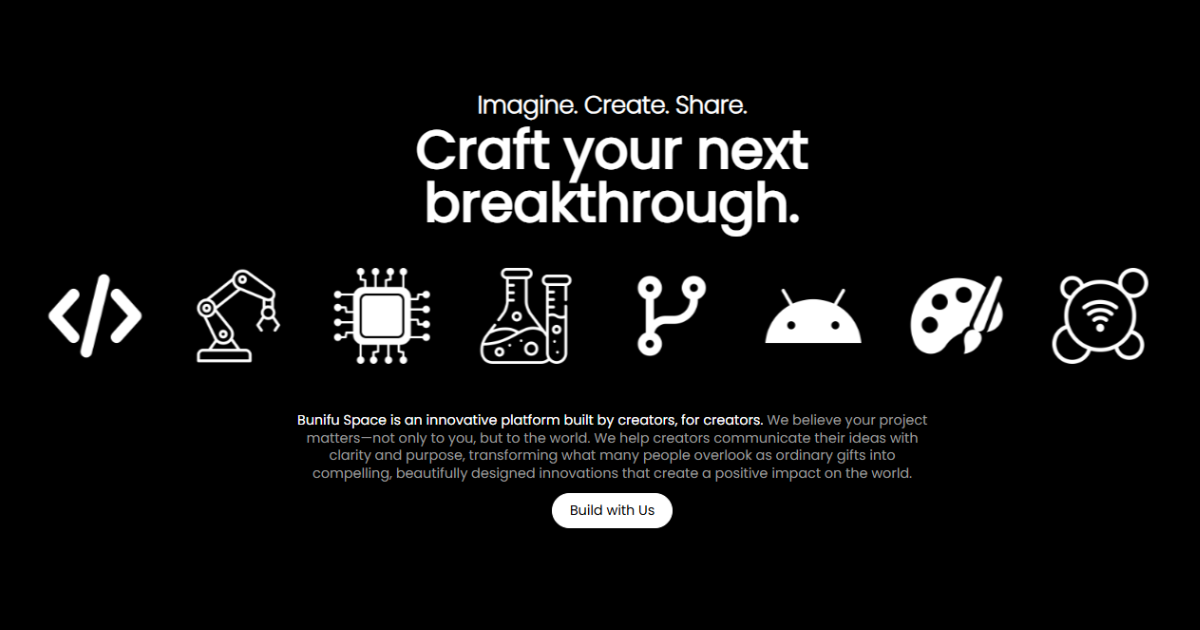
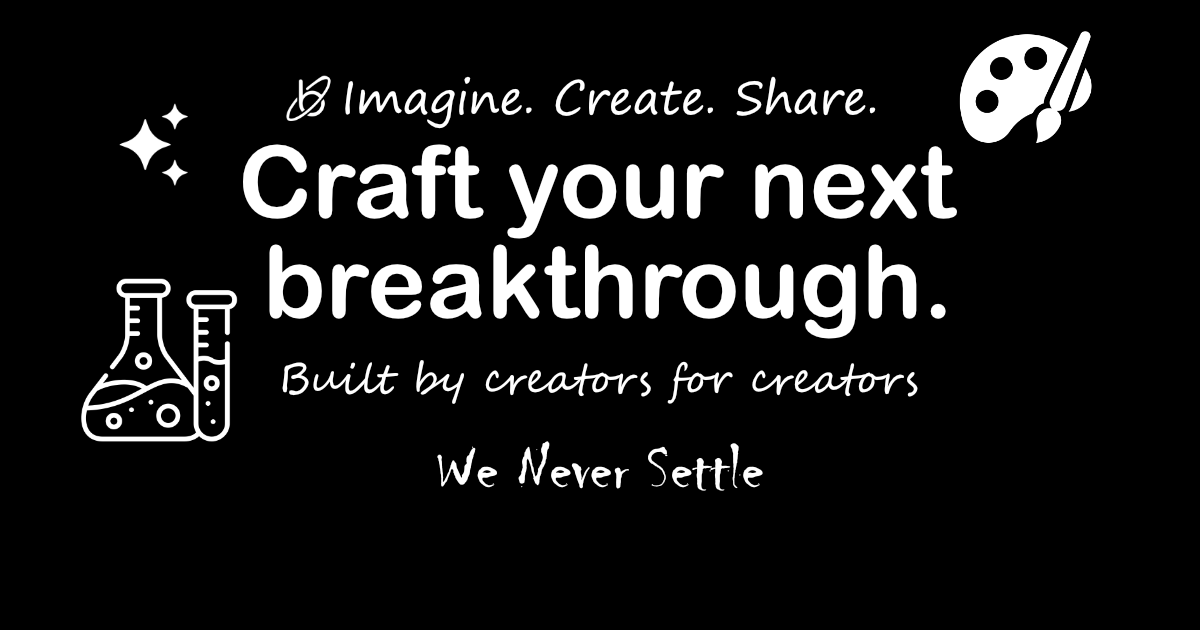
chore: orchestrate production sync [core → distribution] | Lead Architect: John J

diff --git a/css/main.css b/css/main.css
@@ -243,7 +243,6 @@ span.warning {
 
 .feature {
   padding: var(--space-6) 10vw;
-  min-height: 400px;
 }
 
 .feature h2 {
@@ -320,7 +319,6 @@ span.warning {
 
 .process {
   padding: var(--space-6) 10vw;
-  min-height: 400px;
 }
 
 .process h2 {
@@ -330,7 +328,7 @@ span.warning {
 .process p {
   font-size: var(--fs-lg);
   color: var(--text-muted);
-  padding: var(--space-4) 0;
+  padding: var(--space-1) 0;
 }
 
 .process a {
@@ -364,7 +362,6 @@ span.warning {
 
 .innovation {
   padding: var(--space-6) 10vw;
-  min-height: 400px;
 }
 
 .innovation h2 {
@@ -391,7 +388,6 @@ span.warning {
 
 .craft {
   padding: var(--space-6) 10vw;
-  min-height: 400px;
 }
 
 .craft h2 {
@@ -420,7 +416,6 @@ span.warning {
 
 .collaborate {
   padding: var(--space-6) 10vw;
-  min-height: 600px;
 }
 
 .collaborate h2 {
@@ -450,7 +445,6 @@ span.warning {
 
 .values {
   padding: var(--space-6) 10vw;
-  min-height: 500px;
 }
 
 .values h2 {
@@ -492,7 +486,6 @@ span.warning {
 
 .statement {
   padding: var(--space-6) 10vw;
-  min-height: 500px;
 }
 
 .statement h2 {
@@ -515,7 +508,6 @@ span.warning {
 
 .faqs {
   padding: var(--space-6) 10vw;
-  min-height: 400px;
 }
 
 .faqs h2 {
@@ -572,7 +564,6 @@ span.warning {
 
 footer {
   padding: var(--space-6) 10vw;
-  min-height: 400px;
 }
 
 footer p {

diff --git a/404/main.css b/404/main.css
@@ -120,8 +120,7 @@ body {
 }
 
 .error {
-  padding: var(--space-6) 10vw;
-  min-height: 400px;
+  padding: var(--space-12) 10vw;
   display: flex;
   flex-direction: column;
   align-items: center;

diff --git a/bentech/buzurugasda/scripts/app.js b/bentech/buzurugasda/scripts/app.js
@@ -1,1 +1,1 @@
-const a0_0x33c5e9=a0_0x2c23;function a0_0x2c23(_0x4e5430,_0x51cbfc){_0x4e5430=_0x4e5430-0x163;const _0x47c80e=a0_0x5b82();let _0x25706d=_0x47c80e[_0x4e5430];return _0x25706d;}(function(_0x307b77,_0x3db43e){const _0x32dba5=a0_0x2c23,_0xde9ba=_0x307b77();while(!![]){try{const _0x457c3d=-parseInt(_0x32dba5(0x188))/0x1*(-parseInt(_0x32dba5(0x17d))/0x2)+parseInt(_0x32dba5(0x169))/0x3+parseInt(_0x32dba5(0x186))/0x4+parseInt(_0x32dba5(0x167))/0x5+-parseInt(_0x32dba5(0x18e))/0x6*(-parseInt(_0x32dba5(0x163))/0x7)+-parseInt(_0x32dba5(0x16f))/0x8+-parseInt(_0x32dba5(0x187))/0x9*(parseInt(_0x32dba5(0x17e))/0xa);if(_0x457c3d===_0x3db43e)break;else _0xde9ba['push'](_0xde9ba['shift']());}catch(_0x454cd0){_0xde9ba['push'](_0xde9ba['shift']());}}}(a0_0x5b82,0xb50e8));const a0_0x3183a8=(function(){let _0x49c3e6=!![];return function(_0x5c01c5,_0x7a16f3){const _0x59f528=_0x49c3e6?function(){const _0x4cb34c=a0_0x2c23;if(_0x7a16f3){const _0x145265=_0x7a16f3[_0x4cb34c(0x175)](_0x5c01c5,arguments);return _0x7a16f3=null,_0x145265;}}:function(){};return _0x49c3e6=![],_0x59f528;};}()),a0_0x25706d=a0_0x3183a8(this,function(){const _0x4b2096=a0_0x2c23,_0x3d0e2e={'vZDAQ':function(_0xe24dcc,_0x4c5c1c){return _0xe24dcc!==_0x4c5c1c;}};if(_0x3d0e2e[_0x4b2096(0x17c)](a0_0x25706d[_0x4b2096(0x18d)]()['toString']()['indexOf']('\x0a'),-0x1))return;return a0_0x25706d[_0x4b2096(0x170)]()[_0x4b2096(0x183)](_0x4b2096(0x177))['toString']()[_0x4b2096(0x184)](a0_0x25706d)[_0x4b2096(0x183)](_0x4b2096(0x177));});a0_0x25706d();const menuToggle=document[a0_0x33c5e9(0x16e)](a0_0x33c5e9(0x18b)),sidebar=document[a0_0x33c5e9(0x16e)](a0_0x33c5e9(0x172));menuToggle['addEventListener'](a0_0x33c5e9(0x17a),()=>{const _0x47b7ab=a0_0x33c5e9,_0x4eadd8={'HGFty':_0x47b7ab(0x180)},_0x5ce13e=menuToggle[_0x47b7ab(0x178)][_0x47b7ab(0x176)](_0x4eadd8[_0x47b7ab(0x189)]);!_0x5ce13e?(menuToggle['classList'][_0x47b7ab(0x16b)](_0x4eadd8[_0x47b7ab(0x189)]),sidebar[_0x47b7ab(0x178)][_0x47b7ab(0x16b)](_0x47b7ab(0x180))):(menuToggle['classList'][_0x47b7ab(0x182)](_0x4eadd8[_0x47b7ab(0x189)]),sidebar['classList'][_0x47b7ab(0x182)](_0x4eadd8[_0x47b7ab(0x189)]));}),document[a0_0x33c5e9(0x16e)](a0_0x33c5e9(0x164))[a0_0x33c5e9(0x185)](a0_0x33c5e9(0x17a),()=>{const _0x5c3a75=a0_0x33c5e9,_0x44f536={'GRjaa':_0x5c3a75(0x180)},_0x3fa177=menuToggle[_0x5c3a75(0x178)][_0x5c3a75(0x176)](_0x44f536[_0x5c3a75(0x18c)]);_0x3fa177&&(menuToggle[_0x5c3a75(0x178)][_0x5c3a75(0x182)]('active'),sidebar[_0x5c3a75(0x178)][_0x5c3a75(0x182)](_0x5c3a75(0x180)));});const accordionItems=document[a0_0x33c5e9(0x179)]('.combo\x20>\x20li');function a0_0x5b82(){const _0x1287af=[':scope\x20>\x20ul','getElementById','4278824xdTPGG','toString','DZqhx','sidebar','bQHkU','SJGjd','apply','contains','(((.+)+)+)+$','classList','querySelectorAll','click','height','vZDAQ','424IcfzQE','60RDgnvP','LSAZL','active','style','remove','search','constructor','addEventListener','5059252mfAOFN','4461579EeMsCk','5058aJoswg','HGFty','0px','menuToggle','GRjaa','bind','4407252zQkHKb','14YZpwKX','main','jgtlx','forEach','534125JzPRCV','querySelector','1013487mJwhDy','vcsBV','add','WSYHH'];a0_0x5b82=function(){return _0x1287af;};return a0_0x5b82();}accordionItems[a0_0x33c5e9(0x166)](_0x224a4b=>{const _0xc1e8a0=a0_0x33c5e9,_0xd6eb08={'DZqhx':_0xc1e8a0(0x18a),'bQHkU':_0xc1e8a0(0x180),'LSAZL':function(_0xe1b416,_0x4ec81f){return _0xe1b416+_0x4ec81f;},'WSYHH':'.top','vcsBV':_0xc1e8a0(0x16d)},_0x4c0193=_0x224a4b[_0xc1e8a0(0x168)](_0xd6eb08[_0xc1e8a0(0x16c)]),_0x55d29a=_0x224a4b[_0xc1e8a0(0x168)](_0xd6eb08[_0xc1e8a0(0x16a)]);_0x4c0193['addEventListener']('click',()=>{const _0x368698=_0xc1e8a0,_0x1fada5={'SJGjd':_0x368698(0x16d),'jgtlx':_0xd6eb08[_0x368698(0x171)]};if(_0x224a4b[_0x368698(0x178)][_0x368698(0x176)](_0xd6eb08[_0x368698(0x173)])){_0x55d29a['style']['height']=_0xd6eb08[_0x368698(0x171)],_0x224a4b[_0x368698(0x178)][_0x368698(0x182)]('active');return;}accordionItems[_0x368698(0x166)](_0x47cab1=>{const _0x1c4f94=_0x368698;_0x47cab1[_0x1c4f94(0x178)][_0x1c4f94(0x182)](_0x1c4f94(0x180)),_0x47cab1['querySelector'](_0x1fada5[_0x1c4f94(0x174)])[_0x1c4f94(0x181)][_0x1c4f94(0x17b)]=_0x1fada5[_0x1c4f94(0x165)];}),_0x224a4b['classList'][_0x368698(0x16b)](_0xd6eb08[_0x368698(0x173)]),_0x55d29a[_0x368698(0x181)][_0x368698(0x17b)]=_0xd6eb08[_0x368698(0x17f)](_0x55d29a['scrollHeight'],'px');});});
+const a0_0x1a90ef=a0_0x2537;(function(_0x5a57ff,_0x3217fa){const _0x14def5=a0_0x2537,_0xb5b73e=_0x5a57ff();while(!![]){try{const _0x34c38f=-parseInt(_0x14def5(0x160))/0x1*(-parseInt(_0x14def5(0x165))/0x2)+parseInt(_0x14def5(0x16c))/0x3+-parseInt(_0x14def5(0x180))/0x4+-parseInt(_0x14def5(0x168))/0x5*(-parseInt(_0x14def5(0x179))/0x6)+-parseInt(_0x14def5(0x161))/0x7+parseInt(_0x14def5(0x166))/0x8+-parseInt(_0x14def5(0x169))/0x9;if(_0x34c38f===_0x3217fa)break;else _0xb5b73e['push'](_0xb5b73e['shift']());}catch(_0x14d907){_0xb5b73e['push'](_0xb5b73e['shift']());}}}(a0_0x1a3e,0x8df13));const a0_0x2b9dc6=(function(){let _0x1c08c9=!![];return function(_0x62da6d,_0x23305c){const _0x4f4c86=_0x1c08c9?function(){const _0x31d545=a0_0x2537;if(_0x23305c){const _0x354786=_0x23305c[_0x31d545(0x175)](_0x62da6d,arguments);return _0x23305c=null,_0x354786;}}:function(){};return _0x1c08c9=![],_0x4f4c86;};}()),a0_0x2fab43=a0_0x2b9dc6(this,function(){const _0x101c43=a0_0x2537,_0x5c6c8b={'rEsST':function(_0x4d3d9b,_0x55aa2d){return _0x4d3d9b!==_0x55aa2d;},'rirmM':_0x101c43(0x178)};if(_0x5c6c8b[_0x101c43(0x17f)](a0_0x2fab43['bind']()[_0x101c43(0x183)]()[_0x101c43(0x167)]('\x0a'),-0x1))return;return a0_0x2fab43['toString']()[_0x101c43(0x16b)](_0x5c6c8b[_0x101c43(0x17b)])['toString']()[_0x101c43(0x16e)](a0_0x2fab43)[_0x101c43(0x16b)]('(((.+)+)+)+$');});a0_0x2fab43();const menuToggle=document[a0_0x1a90ef(0x17c)](a0_0x1a90ef(0x171)),sidebar=document[a0_0x1a90ef(0x17c)](a0_0x1a90ef(0x16a));menuToggle[a0_0x1a90ef(0x16f)](a0_0x1a90ef(0x182),()=>{const _0x310ebc=a0_0x1a90ef,_0x1eb39e={'USSox':_0x310ebc(0x15e)},_0x3dc1e3=menuToggle['classList'][_0x310ebc(0x17e)](_0x1eb39e[_0x310ebc(0x173)]);!_0x3dc1e3?(menuToggle[_0x310ebc(0x174)]['add'](_0x310ebc(0x15e)),sidebar[_0x310ebc(0x174)][_0x310ebc(0x17d)](_0x1eb39e[_0x310ebc(0x173)])):(menuToggle[_0x310ebc(0x174)][_0x310ebc(0x16d)](_0x310ebc(0x15e)),sidebar['classList'][_0x310ebc(0x16d)](_0x310ebc(0x15e)));}),document['getElementById'](a0_0x1a90ef(0x177))[a0_0x1a90ef(0x16f)]('click',()=>{const _0x8d689f=a0_0x1a90ef,_0x212798={'YjHxC':_0x8d689f(0x15e)},_0x10cab6=menuToggle[_0x8d689f(0x174)][_0x8d689f(0x17e)](_0x212798['YjHxC']);_0x10cab6&&(menuToggle['classList'][_0x8d689f(0x16d)]('active'),sidebar[_0x8d689f(0x174)][_0x8d689f(0x16d)](_0x212798[_0x8d689f(0x164)]));});const accordionItems=document['querySelectorAll']('.combo\x20>\x20li');function a0_0x2537(_0x2e4b34,_0xdf43a4){_0x2e4b34=_0x2e4b34-0x15e;const _0x5e07d1=a0_0x1a3e();let _0x2fab43=_0x5e07d1[_0x2e4b34];return _0x2fab43;}accordionItems[a0_0x1a90ef(0x184)](_0x1fcf76=>{const _0x3104d4=a0_0x1a90ef,_0x4d1c0d={'Gbkhw':'active','hAOEV':'0px','gCcTJ':function(_0x574fa3,_0x5221dd){return _0x574fa3+_0x5221dd;},'jdnRy':'.top','xAThU':_0x3104d4(0x182)},_0x357576=_0x1fcf76[_0x3104d4(0x181)](_0x4d1c0d[_0x3104d4(0x176)]),_0x2a3005=_0x1fcf76[_0x3104d4(0x181)](':scope\x20>\x20ul');_0x357576[_0x3104d4(0x16f)](_0x4d1c0d['xAThU'],()=>{const _0x3a1fd2=_0x3104d4;if(_0x1fcf76[_0x3a1fd2(0x174)]['contains'](_0x4d1c0d[_0x3a1fd2(0x163)])){_0x2a3005[_0x3a1fd2(0x162)][_0x3a1fd2(0x170)]='0px',_0x1fcf76['classList'][_0x3a1fd2(0x16d)]('active');return;}accordionItems[_0x3a1fd2(0x184)](_0x11e762=>{const _0x31f6c9=_0x3a1fd2;_0x11e762[_0x31f6c9(0x174)][_0x31f6c9(0x16d)](_0x4d1c0d[_0x31f6c9(0x163)]),_0x11e762[_0x31f6c9(0x181)](':scope\x20>\x20ul')[_0x31f6c9(0x162)][_0x31f6c9(0x170)]=_0x4d1c0d[_0x31f6c9(0x15f)];}),_0x1fcf76[_0x3a1fd2(0x174)]['add'](_0x4d1c0d[_0x3a1fd2(0x163)]),_0x2a3005[_0x3a1fd2(0x162)]['height']=_0x4d1c0d[_0x3a1fd2(0x172)](_0x2a3005[_0x3a1fd2(0x17a)],'px');});});function a0_0x1a3e(){const _0x2b2d4c=['contains','rEsST','845396RCiUSf','querySelector','click','toString','forEach','active','hAOEV','2QAnGBe','2095450MgAnvN','style','Gbkhw','YjHxC','1120688KyNVNg','1069448jWTIfK','indexOf','3110495rzNAPo','11725740KILuYx','sidebar','search','1555458ekXFml','remove','constructor','addEventListener','height','menuToggle','gCcTJ','USSox','classList','apply','jdnRy','main','(((.+)+)+)+$','6dMhaVP','scrollHeight','rirmM','getElementById','add'];a0_0x1a3e=function(){return _0x2b2d4c;};return a0_0x1a3e();}

diff --git a/index.html b/index.html
@@ -1,1 +1,1 @@
-<!doctype html><html lang="en"><head><meta charset="UTF-8"><meta name="viewport" content="width=device-width,initial-scale=1"><title>Bunifuspace</title><link rel="stylesheet" href="fonts/fonts.css"><link rel="stylesheet" href="css/main.css"><title>Bunifuspace - Imagine. Create. Share</title><meta name="description" content="Imagine boldly. Create thoughtfully. Share what matters. Bunifu Space is where creators, innovators, and dreamers come together to turn ideas into meaningful digital experiences that inspire, connect, and make a lasting impact."><meta name="keywords" content="Bunifuspace, digital studio, web design, web development, software development, UI design, UX design, branding, creative technology, AI solutions, digital products, website development Tanzania, app development, responsive websites, business websites, startup websites, innovation studio, custom software, frontend development, backend development"><meta name="author" content="Bunifuspace"><meta name="theme-color" content="#000000"><meta name="robots" content="index, follow"><meta name="language" content="English"><link rel="canonical" href="https://bunifu.space/"><meta property="og:type" content="website"><meta property="og:url" content="https://bunifu.space/"><meta property="og:title" content="Bunifuspace - Imagine. Create. Share"><meta property="og:description" content="Imagine boldly. Create thoughtfully. Share what matters. Bunifu Space is where creators, innovators, and dreamers come together to turn ideas into meaningful digital experiences that inspire, connect, and make a lasting impact."><meta property="og:site_name" content="Bunifuspace"><meta property="og:image" content="https://bunifu.space/upload/og-image.png"><meta name="twitter:card" content="summary_large_image"><meta name="twitter:url" content="https://bunifu.space/"><meta name="twitter:title" content="Bunifuspace - Imagine. Create. Share"><meta name="twitter:description" content="Imagine boldly. Create thoughtfully. Share what matters. Bunifu Space is where creators, innovators, and dreamers come together to turn ideas into meaningful digital experiences that inspire, connect, and make a lasting impact."><meta name="twitter:image" content="https://bunifu.space/upload/og-image.png"><link rel="apple-touch-icon" sizes="180x180" href="logo/apple-touch-icon.png"><link rel="icon" type="image/png" sizes="32x32" href="logo/favicon-32x32.png"><link rel="icon" type="image/png" sizes="16x16" href="logo/favicon-16x16.png"><link rel="manifest" href="/site.webmanifest"></head><body><main><div class="cover"><h1>Imagine. Create. Share.</h1><h2>Craft your next breakthrough.</h2><div class="techstack"><div class="track"><div class="card"><img src="upload/png/ai.png" alt="ai"></div><div class="card"><img src="upload/png/coding.png" alt="coding"></div><div class="card"><img src="upload/png/robot-arm.png" alt="robot-arm"></div><div class="card"><img src="upload/png/chip.png" alt="chip"></div><div class="card"><img src="upload/png/flask.png" alt="flask"></div><div class="card"><img src="upload/png/git.png" alt="git"></div><div class="card"><img src="upload/png/android.png" alt="android"></div><div class="card"><img src="upload/png/art-studies.png" alt="art-studies"></div><div class="card"><img src="upload/png/iot-alt.png" alt="IoT"></div><div class="card"><img src="upload/png/apple.png" alt="apple"></div><div class="card"><img src="upload/png/window.png" alt="window"></div></div></div><p>Bunifu Space is an innovative platform built by creators, for creators. <span>We believe your project matters—not only to you, but to the world. We help creators communicate their ideas with clarity and purpose, transforming what many people overlook as ordinary gifts into compelling, beautifully designed innovations that create a positive impact on the world.</span></p><a href="#">Build with Us</a></div><div class="feature"><h2>Built around your vision.</h2><a href="#">Join our Team</a><p><span class="outstand">Technology should work with your goals—not against them</span>. Whether you're launching a new idea, modernizing an organization, or creating your next digital product, we help turn ambition into reality.</p><div class="wrapper"><div class="card"><h3>Websites</h3><p>Beautiful, responsive websites that communicate clearly and perform flawlessly.</p></div><div class="card"><h3>Software</h3><p>Custom platforms and app's built around the way your organization actually works.</p></div><div class="card"><h3>Branding</h3><p>Digital identities that inspire confidence and create meaningful connections.</p></div><div class="card"><h3>AI and Automation</h3><p>Smart systems that simplify workflows and create more time for what matters.</p></div></div></div><div class="why-we-build"><div class="wrapper"><div class="card"><h2>We build because</h2><p><span class="outstand">Great products aren't defined by how much they do—they're defined by how effortlessly they do it</span>. We believe simplicity creates confidence, thoughtful design builds trust, and exceptional engineering transforms ordinary interactions into memorable experiences.</p><a href="#">Take a Tour</a></div><div class="card"><h2>We tell stories</h2><p><span class="outstand">Behind every product is a story of curiosity, collaboration, and countless thoughtful decisions</span>. We partner with organizations and founders to create digital experiences that solve real problems while remaining beautiful, accessible, and built to last.</p><a href="#">See what we have Built</a></div></div></div><div class="process"><h2>Thoughtful from the beginning.</h2><a href="#">Meet our Team</a><p><span class="outstand">We don't begin with technology — we begin with people</span>. By understanding your goals, challenges, and ambitions, we create digital experiences that feel purposeful from the very beginning.</p><div class="wrapper"><div class="card"><h3>Discover</h3><p>Understanding your goals, audience, and opportunities.</p></div><div class="card"><h3>Define</h3><p>Turning ideas into a clear strategy with measurable outcomes.</p></div><div class="card"><h3>Design</h3><p>Crafting experiences that are intuitive, beautiful, and purposeful.</p></div><div class="card"><h3>Build</h3><p>Developing reliable, scalable technology engineered for the real world.</p></div></div></div><div class="innovation"><h2>Always exploring.</h2><h3>Never settle.</h3><p><span class="outstand">Innovation begins with curiosity</span>. We constantly experiment with emerging technologies, interaction design, artificial intelligence, and creative ideas to discover better ways of building digital experiences.</p><a href="#">Explore with Us</a></div><div class="craft"><h2>Details matter.</h2><h3>The smallest decisions often make the biggest difference.</h3><p>From typography and motion to accessibility and performance, we consider every element with with care. Because <span class="outstand">remarkable products aren't remembered for being complicated—they're remembered for feeling effortless</span>.</p><a href="#">Find out More</a></div><div class="collaborate"><h2>Working Together.</h2><h3>Collaboration without complexity.</h3><p>Every successful project is built on <span class="outstand">clear communication, thoughtful planning, and mutual trust.</span></p><p>We work closely with every client, ensuring every milestone reflects the original vision while remaining flexible enough to evolve as new ideas emerge.</p><a href="#">Tell your story with Us</a></div><div class="values"><h2>Built on principles.</h2><p>We create products that<span class="outstand"> empower organizations, inspire creativity</span>, and make technology feel more human for everyone who uses it.</p><div class="wrapper"><div class="card"><h3>Clarity</h3><p>Making the complex feel simple.</p></div><div class="card"><h3>Craftsmanship</h3><p>Creating work we're proud of.</p></div><div class="card"><h3>Curiosity</h3><p>Exploring new ideas with an open mind.</p></div><div class="card"><h3>Excellence</h3><p>Never settling for "good enough."</p></div></div></div><div class="statement"><h2>The next great idea deserves exceptional execution.</h2><p>Whether you're building your first product, transforming an existing organization, or imagining something entirely new, we'd love to help bring it to life. <span class="outstand">Let's build something remarkable together</span>.</p><a href="#">Start Your Project</a></div><div class="faqs"><h2>Frequently Asked Questions</h2><div class="wrapper"><div class="item"><div class="question"><h3>What does Bunifuspace do ?</h3><span>+</span></div><div class="answer"><p>We design and develop websites, software, digital products, and intelligent solutions that help businesses, organizations, and creators bring their ideas to life.</p></div></div><div class="item"><div class="question"><h3>Who do you work with ?</h3><span>+</span></div><div class="answer"><p>We work with startups, businesses, schools, nonprofits, and organizations looking for thoughtful digital experiences, whether they're launching something new or improving an existing product.</p></div></div><div class="item"><div class="question"><h3>Can you build custom software ?</h3><span>+</span></div><div class="answer"><p>Yes. Every solution is designed around your specific goals and workflows, ensuring the final product fits your needs rather than forcing you to adapt to generic software.</p></div></div><div class="item"><div class="question"><h3>Do you only build websites ?</h3><span>+</span></div><div class="answer"><p>No. In addition to websites, we create web applications, business systems, branding, user interfaces, AI-powered solutions, and interactive digital experiences.</p></div></div><div class="item"><div class="question"><h3>What technologies do you use ?</h3><span>+</span></div><div class="answer"><p>Our work is powered by modern technologies including HTML, CSS, JavaScript, PHP, Python, MySQL, Arduino, APIs, AI tools, and other technologies chosen to best fit each project.</p></div></div><div class="item"><div class="question"><h3>How does a project begin ?</h3><span>+</span></div><div class="answer"><p>Every project starts with a conversation. We take time to understand your vision, define the objectives, explore possibilities, and develop a clear plan before any design or development begins.</p></div></div><div class="item"><div class="question"><h3>How can I work with Bunifuspace ?</h3><span>+</span></div><div class="answer"><p>Simply get in touch through our contact page. Tell us about your idea, goals, or challenge, and we'll guide you through the next steps to turn your vision into reality.</p></div></div></div></div></main><footer><div class="wrapper"><ul><h4>Explore</h4><li><a href="#">Bunifuspace</a></li><li><a href="#">Work</a></li><li><a href="#">Services</a></li><li><a href="#">Technologies</a></li><li><a href="#">About</a></li><li><a href="#">Contact</a></li><li><a href="#">Privacy Policy</a></li><li><a href="#">Terms of Service</a></li></ul><ul><h4>Services</h4><li><a href="#">Website Design</a></li><li><a href="#">Web Applications</a></li><li><a href="#">Custom Software</a></li><li><a href="#">UI / UX Design</a></li><li><a href="#">Branding</a></li><li><a href="#">AI Solutions</a></li><li><a href="#">Automation</a></li><li><a href="#">Consulting</a></li></ul><ul><h4>Technologies</h4><li><a href="#">HTML5</a></li><li><a href="#">CSS3</a></li><li><a href="#">JavaScript</a></li><li><a href="#">Python</a></li><li><a href="#">MySQL</a></li><li><a href="#">Figma</a></li><li><a href="#">Arduino</a></li><li><a href="#">Git</a></li></ul><ul><h4>Connect</h4><li><a href="#">GitHub</a></li><li><a href="#">LinkedIn</a></li><li><a href="#">Instagram</a></li><li><a href="#">X</a></li><li><a href="#">Behance</a></li><li><a href="#">WhatsApp</a></li><li><a href="#">YouTube</a></li><li><a href="#">Discord</a></li></ul></div><div class="credit"><p>United Republic of Tanzania</p><p>© 2026 Bunifuspace &bull; All rights Reserved</p></div></footer><script src="script/app.js"></script></body></html>
+<!doctype html><html lang="en"><head><meta charset="UTF-8"><meta name="viewport" content="width=device-width,initial-scale=1"><title>Bunifuspace</title><link rel="stylesheet" href="fonts/fonts.css"><link rel="stylesheet" href="css/main.css"><title>Bunifuspace - Imagine. Create. Share</title><meta name="description" content="Imagine boldly. Create thoughtfully. Share what matters. Bunifu Space is where creators, innovators, and dreamers come together to turn ideas into meaningful digital experiences that inspire, connect, and make a lasting impact."><meta name="keywords" content="Bunifuspace, digital studio, web design, web development, software development, UI design, UX design, branding, creative technology, AI solutions, digital products, website development Tanzania, app development, responsive websites, business websites, startup websites, innovation studio, custom software, frontend development, backend development"><meta name="author" content="Bunifuspace"><meta name="theme-color" content="#000000"><meta name="robots" content="index, follow"><meta name="language" content="English"><link rel="canonical" href="https://bunifu.space/"><meta property="og:type" content="website"><meta property="og:url" content="https://bunifu.space/"><meta property="og:title" content="Bunifuspace - Imagine. Create. Share"><meta property="og:description" content="Imagine boldly. Create thoughtfully. Share what matters. Bunifu Space is where creators, innovators, and dreamers come together to turn ideas into meaningful digital experiences that inspire, connect, and make a lasting impact."><meta property="og:site_name" content="Bunifuspace"><meta property="og:image" content="https://bunifu.space/upload/og-image.png"><meta name="twitter:card" content="summary_large_image"><meta name="twitter:url" content="https://bunifu.space/"><meta name="twitter:title" content="Bunifuspace - Imagine. Create. Share"><meta name="twitter:description" content="Imagine boldly. Create thoughtfully. Share what matters. Bunifu Space is where creators, innovators, and dreamers come together to turn ideas into meaningful digital experiences that inspire, connect, and make a lasting impact."><meta name="twitter:image" content="https://bunifu.space/upload/og-image.png"><link rel="apple-touch-icon" sizes="180x180" href="logo/apple-touch-icon.png"><link rel="icon" type="image/png" sizes="32x32" href="logo/favicon-32x32.png"><link rel="icon" type="image/png" sizes="16x16" href="logo/favicon-16x16.png"><link rel="manifest" href="site.webmanifest"></head><body><main><div class="cover"><h1>Imagine. Create. Share.</h1><h2>Craft your next breakthrough.</h2><div class="techstack"><div class="track"><div class="card"><img src="upload/png/ai.png" alt="ai"></div><div class="card"><img src="upload/png/coding.png" alt="coding"></div><div class="card"><img src="upload/png/robot-arm.png" alt="robot-arm"></div><div class="card"><img src="upload/png/chip.png" alt="chip"></div><div class="card"><img src="upload/png/flask.png" alt="flask"></div><div class="card"><img src="upload/png/git.png" alt="git"></div><div class="card"><img src="upload/png/android.png" alt="android"></div><div class="card"><img src="upload/png/art-studies.png" alt="art-studies"></div><div class="card"><img src="upload/png/iot-alt.png" alt="IoT"></div><div class="card"><img src="upload/png/apple.png" alt="apple"></div><div class="card"><img src="upload/png/window.png" alt="window"></div></div></div><p>Bunifuspace is an innovative platform built by creators, for creators. <span>We believe your project matters—not only to you, but to the world. We help creators communicate their ideas with clarity and purpose, transforming what many people overlook as ordinary gifts into compelling, beautifully designed innovations that create a positive impact on the world.</span></p><a href="#">Build with Us</a></div><div class="feature"><h2>Built around your vision.</h2><a href="#">Join our Team</a><p><span class="outstand">Technology should work with your goals—not against them</span>. Whether you're launching a new idea, modernizing an organization, or creating your next digital product, we help turn ambition into reality.</p><div class="wrapper"><div class="card"><h3>Websites</h3><p>Beautiful, responsive websites that communicate clearly and perform flawlessly.</p></div><div class="card"><h3>Software</h3><p>Custom platforms and app's built around the way your organization actually works.</p></div><div class="card"><h3>Branding</h3><p>Digital identities that inspire confidence and create meaningful connections.</p></div><div class="card"><h3>AI and Automation</h3><p>Smart systems that simplify workflows and create more time for what matters.</p></div></div></div><div class="why-we-build"><div class="wrapper"><div class="card"><h2>We build because</h2><p><span class="outstand">Great products aren't defined by how much they do—they're defined by how effortlessly they do it</span>. We believe simplicity creates confidence, thoughtful design builds trust, and exceptional engineering transforms ordinary interactions into memorable experiences.</p><a href="#">Take a Tour</a></div><div class="card"><h2>We tell stories</h2><p><span class="outstand">Behind every product is a story of curiosity, collaboration, and countless thoughtful decisions</span>. We partner with organizations and founders to create digital experiences that solve real problems while remaining beautiful, accessible, and built to last.</p><a href="#">See what we have Built</a></div></div></div><div class="process"><h2>Thoughtful from the beginning.</h2><a href="#">Meet our Team</a><p><span class="outstand">We don't begin with technology — we begin with people</span>. By understanding your goals, challenges, and ambitions, we create digital experiences that feel purposeful from the very beginning.</p><div class="wrapper"><div class="card"><h3>Discover</h3><p>Understanding your goals, audience, and opportunities.</p></div><div class="card"><h3>Define</h3><p>Turning ideas into a clear strategy with measurable outcomes.</p></div><div class="card"><h3>Design</h3><p>Crafting experiences that are intuitive, beautiful, and purposeful.</p></div><div class="card"><h3>Build</h3><p>Developing reliable, scalable technology engineered for the real world.</p></div></div></div><div class="innovation"><h2>Always exploring.</h2><h3>Never settle.</h3><p><span class="outstand">Innovation begins with curiosity</span>. We constantly experiment with emerging technologies, interaction design, artificial intelligence, and creative ideas to discover better ways of building digital experiences.</p><a href="#">Explore with Us</a></div><div class="craft"><h2>Details matter.</h2><h3>The smallest decisions often make the biggest difference.</h3><p>From typography and motion to accessibility and performance, we consider every element with with care. Because <span class="outstand">remarkable products aren't remembered for being complicated—they're remembered for feeling effortless</span>.</p><a href="#">Find out More</a></div><div class="collaborate"><h2>Working Together.</h2><h3>Collaboration without complexity.</h3><p>Every successful project is built on <span class="outstand">clear communication, thoughtful planning, and mutual trust.</span></p><p>We work closely with every client, ensuring every milestone reflects the original vision while remaining flexible enough to evolve as new ideas emerge.</p><a href="#">Tell your story with Us</a></div><div class="values"><h2>Built on principles.</h2><p>We create products that<span class="outstand"> empower organizations, inspire creativity</span>, and make technology feel more human for everyone who uses it.</p><div class="wrapper"><div class="card"><h3>Clarity</h3><p>Making the complex feel simple.</p></div><div class="card"><h3>Craftsmanship</h3><p>Creating work we're proud of.</p></div><div class="card"><h3>Curiosity</h3><p>Exploring new ideas with an open mind.</p></div><div class="card"><h3>Excellence</h3><p>Never settling for "good enough."</p></div></div></div><div class="statement"><h2>The next great idea deserves exceptional execution.</h2><p>Whether you're building your first product, transforming an existing organization, or imagining something entirely new, we'd love to help bring it to life. <span class="outstand">Let's build something remarkable together</span>.</p><a href="#">Start Your Project</a></div><div class="faqs"><h2>Frequently Asked Questions</h2><div class="wrapper"><div class="item"><div class="question"><h3>What does Bunifuspace do ?</h3><span>+</span></div><div class="answer"><p>We design and develop websites, software, digital products, and intelligent solutions that help businesses, organizations, and creators bring their ideas to life.</p></div></div><div class="item"><div class="question"><h3>Who do you work with ?</h3><span>+</span></div><div class="answer"><p>We work with startups, businesses, schools, nonprofits, and organizations looking for thoughtful digital experiences, whether they're launching something new or improving an existing product.</p></div></div><div class="item"><div class="question"><h3>Can you build custom software ?</h3><span>+</span></div><div class="answer"><p>Yes. Every solution is designed around your specific goals and workflows, ensuring the final product fits your needs rather than forcing you to adapt to generic software.</p></div></div><div class="item"><div class="question"><h3>Do you only build websites ?</h3><span>+</span></div><div class="answer"><p>No. In addition to websites, we create web applications, business systems, branding, user interfaces, AI-powered solutions, and interactive digital experiences.</p></div></div><div class="item"><div class="question"><h3>What technologies do you use ?</h3><span>+</span></div><div class="answer"><p>Our work is powered by modern technologies including HTML, CSS, JavaScript, PHP, Python, MySQL, Arduino, APIs, AI tools, and other technologies chosen to best fit each project.</p></div></div><div class="item"><div class="question"><h3>How does a project begin ?</h3><span>+</span></div><div class="answer"><p>Every project starts with a conversation. We take time to understand your vision, define the objectives, explore possibilities, and develop a clear plan before any design or development begins.</p></div></div><div class="item"><div class="question"><h3>How can I work with Bunifuspace ?</h3><span>+</span></div><div class="answer"><p>Simply get in touch through our contact page. Tell us about your idea, goals, or challenge, and we'll guide you through the next steps to turn your vision into reality.</p></div></div></div></div></main><footer><div class="wrapper"><ul><h4>Explore</h4><li><a href="#">Bunifuspace</a></li><li><a href="#">Work</a></li><li><a href="#">Services</a></li><li><a href="#">Technologies</a></li><li><a href="#">About</a></li><li><a href="#">Contact</a></li><li><a href="#">Privacy Policy</a></li><li><a href="#">Terms of Service</a></li></ul><ul><h4>Services</h4><li><a href="#">Website Design</a></li><li><a href="#">Web Applications</a></li><li><a href="#">Custom Software</a></li><li><a href="#">UI / UX Design</a></li><li><a href="#">Branding</a></li><li><a href="#">AI Solutions</a></li><li><a href="#">Automation</a></li><li><a href="#">Consulting</a></li></ul><ul><h4>Technologies</h4><li><a href="#">HTML5</a></li><li><a href="#">CSS3</a></li><li><a href="#">JavaScript</a></li><li><a href="#">Python</a></li><li><a href="#">MySQL</a></li><li><a href="#">Figma</a></li><li><a href="#">Arduino</a></li><li><a href="#">Git</a></li></ul><ul><h4>Connect</h4><li><a href="#">GitHub</a></li><li><a href="#">LinkedIn</a></li><li><a href="#">Instagram</a></li><li><a href="#">X</a></li><li><a href="#">Behance</a></li><li><a href="#">WhatsApp</a></li><li><a href="#">YouTube</a></li><li><a href="#">Discord</a></li></ul></div><div class="credit"><p>United Republic of Tanzania</p><p>© 2026 Bunifuspace &bull; All rights Reserved</p></div></footer><script src="script/app.js"></script></body></html>

diff --git a/script/app.js b/script/app.js
@@ -1,1 +1,1 @@
-const a1_0x3116b3=a1_0x5157;(function(_0x5b37f9,_0x328d27){const _0x2bcd3b=a1_0x5157,_0x5acb93=_0x5b37f9();while(!![]){try{const _0x5f00ef=-parseInt(_0x2bcd3b(0x197))/0x1+-parseInt(_0x2bcd3b(0x1a1))/0x2*(parseInt(_0x2bcd3b(0x180))/0x3)+-parseInt(_0x2bcd3b(0x182))/0x4+-parseInt(_0x2bcd3b(0x188))/0x5*(parseInt(_0x2bcd3b(0x181))/0x6)+parseInt(_0x2bcd3b(0x186))/0x7+-parseInt(_0x2bcd3b(0x18b))/0x8*(parseInt(_0x2bcd3b(0x19f))/0x9)+parseInt(_0x2bcd3b(0x18d))/0xa;if(_0x5f00ef===_0x328d27)break;else _0x5acb93['push'](_0x5acb93['shift']());}catch(_0xd23eed){_0x5acb93['push'](_0x5acb93['shift']());}}}(a1_0x4c00,0xe1951));const a1_0x2daa71=(function(){let _0x44a1bf=!![];return function(_0x2fc52d,_0x176137){const _0x577608=_0x44a1bf?function(){const _0x43d7a5=a1_0x5157;if(_0x176137){const _0x9c795f=_0x176137[_0x43d7a5(0x1a3)](_0x2fc52d,arguments);return _0x176137=null,_0x9c795f;}}:function(){};return _0x44a1bf=![],_0x577608;};}()),a1_0x4860d7=a1_0x2daa71(this,function(){const _0x2acde2=a1_0x5157,_0x42a2e8={'XAOce':function(_0x467f5e,_0x49b8ec){return _0x467f5e!==_0x49b8ec;},'CtYnP':'(((.+)+)+)+$'};if(_0x42a2e8['XAOce'](a1_0x4860d7[_0x2acde2(0x198)]()['toString']()['indexOf']('\x0a'),-0x1))return;return a1_0x4860d7[_0x2acde2(0x17d)]()[_0x2acde2(0x185)](_0x42a2e8[_0x2acde2(0x175)])['toString']()[_0x2acde2(0x19c)](a1_0x4860d7)[_0x2acde2(0x185)](_0x42a2e8[_0x2acde2(0x175)]);});a1_0x4860d7();const items=document[a1_0x3116b3(0x179)](a1_0x3116b3(0x19d));items[a1_0x3116b3(0x17a)](_0x274f09=>{const _0x22484b=a1_0x3116b3,_0x3ba61f={'tbEJC':_0x22484b(0x199),'QDUmr':_0x22484b(0x193),'fuHVt':function(_0xd73d67,_0x4c3ab6){return _0xd73d67+_0x4c3ab6;},'NXdih':_0x22484b(0x1a5),'HHEsg':_0x22484b(0x1a0)},_0x20dd8e=_0x274f09[_0x22484b(0x196)](_0x3ba61f['NXdih']),_0x512a63=_0x274f09[_0x22484b(0x196)](_0x3ba61f[_0x22484b(0x19b)]);_0x20dd8e[_0x22484b(0x176)](_0x3ba61f[_0x22484b(0x19a)],()=>{const _0x361ef2=_0x22484b,_0x3ae781=_0x274f09[_0x361ef2(0x195)][_0x361ef2(0x18c)](_0x361ef2(0x199));items[_0x361ef2(0x17a)](_0x4b32e0=>{const _0x219eec=_0x361ef2;_0x4b32e0['classList'][_0x219eec(0x183)](_0x3ba61f[_0x219eec(0x194)]),_0x4b32e0[_0x219eec(0x196)](_0x3ba61f['QDUmr'])[_0x219eec(0x18a)]['height']='0';}),!_0x3ae781&&(_0x274f09[_0x361ef2(0x195)][_0x361ef2(0x192)](_0x3ba61f['tbEJC']),_0x512a63[_0x361ef2(0x18a)][_0x361ef2(0x18f)]=_0x3ba61f[_0x361ef2(0x190)](_0x512a63[_0x361ef2(0x18e)],'px'));});}),document[a1_0x3116b3(0x176)](a1_0x3116b3(0x1a7),()=>{const _0x2b5172=a1_0x3116b3,_0x5b9e01={'RjxNk':function(_0x23904a,_0x1acef7){return _0x23904a+_0x1acef7;},'iaUJR':function(_0x499516,_0xf3574f){return _0x499516/_0xf3574f;},'HBhrm':function(_0x5c7c88,_0x9b350f){return _0x5c7c88<_0x9b350f;},'GUaBy':_0x2b5172(0x189),'VpLAu':function(_0x53efa5,_0x39a641,_0x2863f8){return _0x53efa5(_0x39a641,_0x2863f8);},'Aczdz':function(_0x15e249,_0xf3fc0e){return _0x15e249>_0xf3fc0e;},'MUBar':_0x2b5172(0x17c),'wGudv':function(_0x51b76d,_0x2386e3){return _0x51b76d(_0x2386e3);},'kmhnK':_0x2b5172(0x19e),'vxqng':'.track','ZUqMf':function(_0x5392c0,_0x10f67e){return _0x5392c0(_0x10f67e);}},_0x808d64=document[_0x2b5172(0x196)](_0x5b9e01['kmhnK']),_0x27cc93=document[_0x2b5172(0x196)](_0x5b9e01['vxqng']),_0x4ea209=_0x27cc93[_0x2b5172(0x17f)](!![]);_0x808d64['appendChild'](_0x4ea209);function _0x5adbe3(){const _0x1597c9=_0x2b5172,_0x4493f7=document['querySelectorAll'](_0x5b9e01[_0x1597c9(0x1a8)]),_0x13617f=_0x5b9e01['iaUJR'](window['innerWidth'],0x2),_0x27956a=0x19;_0x4493f7[_0x1597c9(0x17a)](_0x205edb=>{const _0x1a8104=_0x1597c9,_0x1b421a=_0x205edb[_0x1a8104(0x174)](),_0x39c4b7=_0x5b9e01['RjxNk'](_0x1b421a[_0x1a8104(0x1a6)],_0x5b9e01[_0x1a8104(0x1a2)](_0x1b421a['width'],0x2)),_0xe83b04=Math[_0x1a8104(0x17b)](_0x39c4b7-_0x13617f);if(_0x5b9e01[_0x1a8104(0x184)](_0xe83b04,_0x27956a))!_0x205edb[_0x1a8104(0x17e)][_0x1a8104(0x178)]&&(_0x205edb[_0x1a8104(0x195)][_0x1a8104(0x192)](_0x1a8104(0x191)),_0x205edb[_0x1a8104(0x17e)][_0x1a8104(0x178)]=_0x5b9e01['GUaBy'],_0x5b9e01[_0x1a8104(0x1a4)](setTimeout,()=>{const _0xf0a7a=_0x1a8104;_0x205edb['classList'][_0xf0a7a(0x183)]('beam-active');},0x44c));else _0x5b9e01[_0x1a8104(0x177)](_0xe83b04,0x96)&&delete _0x205edb['dataset'][_0x1a8104(0x178)];}),_0x5b9e01[_0x1597c9(0x187)](requestAnimationFrame,_0x5adbe3);}_0x5b9e01['ZUqMf'](requestAnimationFrame,_0x5adbe3);});function a1_0x5157(_0x355675,_0x48d614){_0x355675=_0x355675-0x174;const _0x3e7464=a1_0x4c00();let _0x4860d7=_0x3e7464[_0x355675];return _0x4860d7;}function a1_0x4c00(){const _0x57bdc8=['.item','.techstack','3178467yrEBHL','click','406WHaveY','iaUJR','apply','VpLAu','.question','left','DOMContentLoaded','MUBar','getBoundingClientRect','CtYnP','addEventListener','Aczdz','triggered','querySelectorAll','forEach','abs','.card','toString','dataset','cloneNode','16143rlMaCj','2162892BdyTTd','945860jUWdoc','remove','HBhrm','search','4735017oTzFTW','wGudv','15NSriRf','true','style','8zupykY','contains','34985780KdbHQj','scrollHeight','height','fuHVt','beam-active','add','.answer','tbEJC','classList','querySelector','487607zKYCkG','bind','active','HHEsg','QDUmr','constructor'];a1_0x4c00=function(){return _0x57bdc8;};return a1_0x4c00();}
+const a1_0x134cb7=a1_0x5047;(function(_0x25423b,_0x574ca3){const _0x57bbb8=a1_0x5047,_0xb7ba9f=_0x25423b();while(!![]){try{const _0x90e89d=-parseInt(_0x57bbb8(0x147))/0x1*(parseInt(_0x57bbb8(0x11a))/0x2)+parseInt(_0x57bbb8(0x13d))/0x3+-parseInt(_0x57bbb8(0x12e))/0x4+parseInt(_0x57bbb8(0x11c))/0x5*(parseInt(_0x57bbb8(0x125))/0x6)+parseInt(_0x57bbb8(0x129))/0x7+parseInt(_0x57bbb8(0x141))/0x8*(-parseInt(_0x57bbb8(0x14d))/0x9)+-parseInt(_0x57bbb8(0x126))/0xa*(-parseInt(_0x57bbb8(0x124))/0xb);if(_0x90e89d===_0x574ca3)break;else _0xb7ba9f['push'](_0xb7ba9f['shift']());}catch(_0x2fa9d7){_0xb7ba9f['push'](_0xb7ba9f['shift']());}}}(a1_0x36f4,0xaf47f));function a1_0x5047(_0x19588b,_0x4f220c){_0x19588b=_0x19588b-0x118;const _0x34988a=a1_0x36f4();let _0x1c5101=_0x34988a[_0x19588b];return _0x1c5101;}const a1_0x4080d3=(function(){let _0x5f2741=!![];return function(_0x15bd51,_0x5c6d78){const _0x2ee730=_0x5f2741?function(){const _0x40f0c1=a1_0x5047;if(_0x5c6d78){const _0x211657=_0x5c6d78[_0x40f0c1(0x11f)](_0x15bd51,arguments);return _0x5c6d78=null,_0x211657;}}:function(){};return _0x5f2741=![],_0x2ee730;};}()),a1_0x1c5101=a1_0x4080d3(this,function(){const _0x58d704=a1_0x5047,_0x274a76={'wvoxQ':function(_0x3f8e4d,_0x575ae6){return _0x3f8e4d!==_0x575ae6;}};if(_0x274a76[_0x58d704(0x12a)](a1_0x1c5101['bind']()[_0x58d704(0x145)]()['indexOf']('\x0a'),-0x1))return;return a1_0x1c5101[_0x58d704(0x145)]()['search'](_0x58d704(0x134))[_0x58d704(0x145)]()['constructor'](a1_0x1c5101)[_0x58d704(0x128)](_0x58d704(0x134));});function a1_0x36f4(){const _0x2856ba=['jwohm','32066nYAtZk','JSpAC','2885WhaKxT','bCcug','jADiH','apply','DOMContentLoaded','.track','.answer','ScyBV','18908703dxsCjZ','5424WwRtSr','10hLfBHN','UowSH','search','2519559LDTRvh','wvoxQ','JBHwD','querySelectorAll','click','1138804xvUbNJ','triggered','style','.card','dataset','remove','(((.+)+)+)+$','.techstack','getBoundingClientRect','.item','height','left','KIVlT','width','true','1562706oHGioX','innerWidth','active','forEach','16136mAUTXI','avXXm','KbdCC','appendChild','toString','abs','89hdFNiu','papBY','beam-active','eofhh','classList','add','3087ohxGzz','querySelector'];a1_0x36f4=function(){return _0x2856ba;};return a1_0x36f4();}a1_0x1c5101();const items=document[a1_0x134cb7(0x12c)](a1_0x134cb7(0x137));items[a1_0x134cb7(0x140)](_0x4db7e9=>{const _0x2d6f81=a1_0x134cb7,_0xe36ab9={'KIVlT':_0x2d6f81(0x13f),'JBHwD':function(_0x3545c4,_0x2996e7){return _0x3545c4+_0x2996e7;},'papBY':'.question','jwohm':_0x2d6f81(0x122)},_0x42f916=_0x4db7e9[_0x2d6f81(0x118)](_0xe36ab9[_0x2d6f81(0x148)]),_0x22a5d1=_0x4db7e9[_0x2d6f81(0x118)](_0xe36ab9[_0x2d6f81(0x119)]);_0x42f916['addEventListener'](_0x2d6f81(0x12d),()=>{const _0x2bb3f2=_0x2d6f81,_0x8f3649=_0x4db7e9[_0x2bb3f2(0x14b)]['contains'](_0x2bb3f2(0x13f));items['forEach'](_0x3ec2c5=>{const _0x4481d1=_0x2bb3f2;_0x3ec2c5[_0x4481d1(0x14b)][_0x4481d1(0x133)](_0xe36ab9[_0x4481d1(0x13a)]),_0x3ec2c5[_0x4481d1(0x118)](_0x4481d1(0x122))[_0x4481d1(0x130)][_0x4481d1(0x138)]='0';}),!_0x8f3649&&(_0x4db7e9[_0x2bb3f2(0x14b)]['add'](_0x2bb3f2(0x13f)),_0x22a5d1[_0x2bb3f2(0x130)][_0x2bb3f2(0x138)]=_0xe36ab9[_0x2bb3f2(0x12b)](_0x22a5d1['scrollHeight'],'px'));});}),document['addEventListener'](a1_0x134cb7(0x120),()=>{const _0x3ca0c6=a1_0x134cb7,_0x4f6ab5={'KbdCC':_0x3ca0c6(0x149),'bCcug':function(_0x32fba7,_0x11c1fa){return _0x32fba7+_0x11c1fa;},'UowSH':function(_0x15f2a2,_0x5775d1){return _0x15f2a2/_0x5775d1;},'eofhh':function(_0x3470a8,_0x31fd26){return _0x3470a8-_0x31fd26;},'VDQYv':function(_0x50231c,_0x158b18,_0x509989){return _0x50231c(_0x158b18,_0x509989);},'ScyBV':function(_0x31574b,_0x1fca66){return _0x31574b>_0x1fca66;},'JSpAC':_0x3ca0c6(0x131),'wsJYu':_0x3ca0c6(0x135),'avXXm':_0x3ca0c6(0x121)},_0x10d36d=document[_0x3ca0c6(0x118)](_0x4f6ab5['wsJYu']),_0x1f9106=document[_0x3ca0c6(0x118)](_0x4f6ab5[_0x3ca0c6(0x142)]),_0x48c215=_0x1f9106['cloneNode'](!![]);_0x10d36d[_0x3ca0c6(0x144)](_0x48c215);function _0x57c159(){const _0x2334df=_0x3ca0c6,_0x3a681f=document[_0x2334df(0x12c)](_0x4f6ab5[_0x2334df(0x11b)]),_0x4f00a0=window[_0x2334df(0x13e)]/0x2,_0x4e4ccc=0x19;_0x3a681f[_0x2334df(0x140)](_0x5a912a=>{const _0x8a28d0=_0x2334df,_0x49d344={'jADiH':_0x4f6ab5[_0x8a28d0(0x143)]},_0x239d59=_0x5a912a[_0x8a28d0(0x136)](),_0x56f524=_0x4f6ab5[_0x8a28d0(0x11d)](_0x239d59[_0x8a28d0(0x139)],_0x4f6ab5[_0x8a28d0(0x127)](_0x239d59[_0x8a28d0(0x13b)],0x2)),_0x120b1b=Math[_0x8a28d0(0x146)](_0x4f6ab5[_0x8a28d0(0x14a)](_0x56f524,_0x4f00a0));if(_0x120b1b<_0x4e4ccc)!_0x5a912a[_0x8a28d0(0x132)]['triggered']&&(_0x5a912a[_0x8a28d0(0x14b)][_0x8a28d0(0x14c)]('beam-active'),_0x5a912a[_0x8a28d0(0x132)][_0x8a28d0(0x12f)]=_0x8a28d0(0x13c),_0x4f6ab5['VDQYv'](setTimeout,()=>{const _0x40e2fb=_0x8a28d0;_0x5a912a[_0x40e2fb(0x14b)][_0x40e2fb(0x133)](_0x49d344[_0x40e2fb(0x11e)]);},0x44c));else _0x4f6ab5[_0x8a28d0(0x123)](_0x120b1b,0x96)&&delete _0x5a912a[_0x8a28d0(0x132)][_0x8a28d0(0x12f)];}),requestAnimationFrame(_0x57c159);}requestAnimationFrame(_0x57c159);});